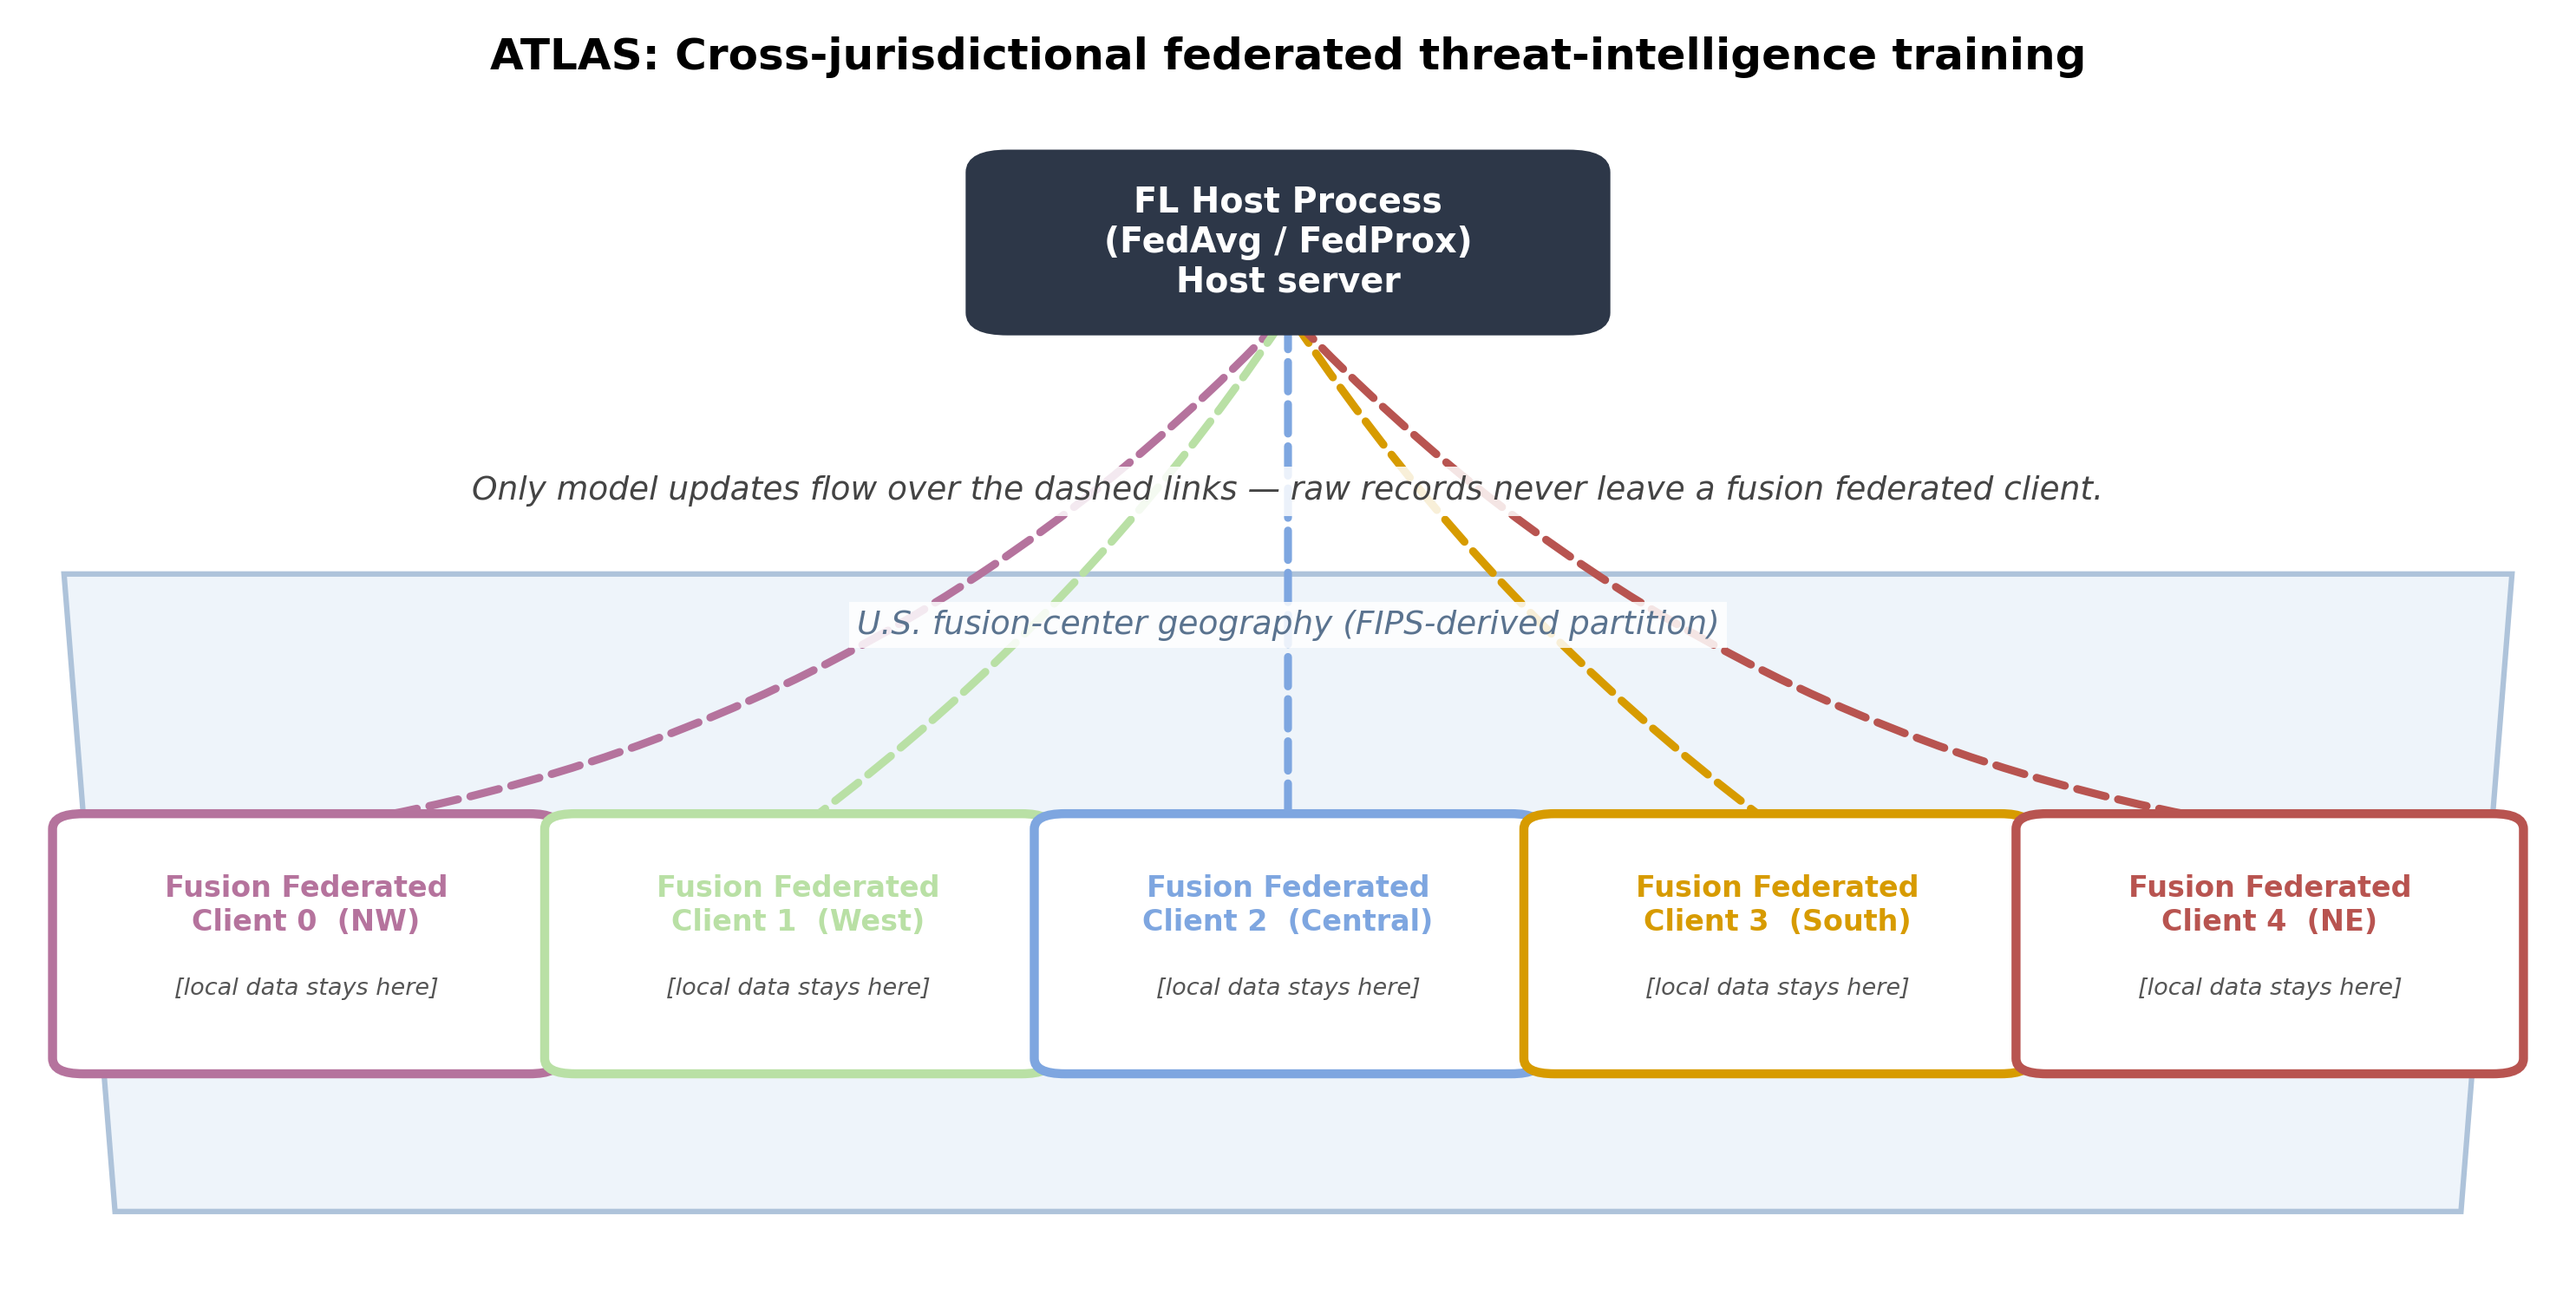
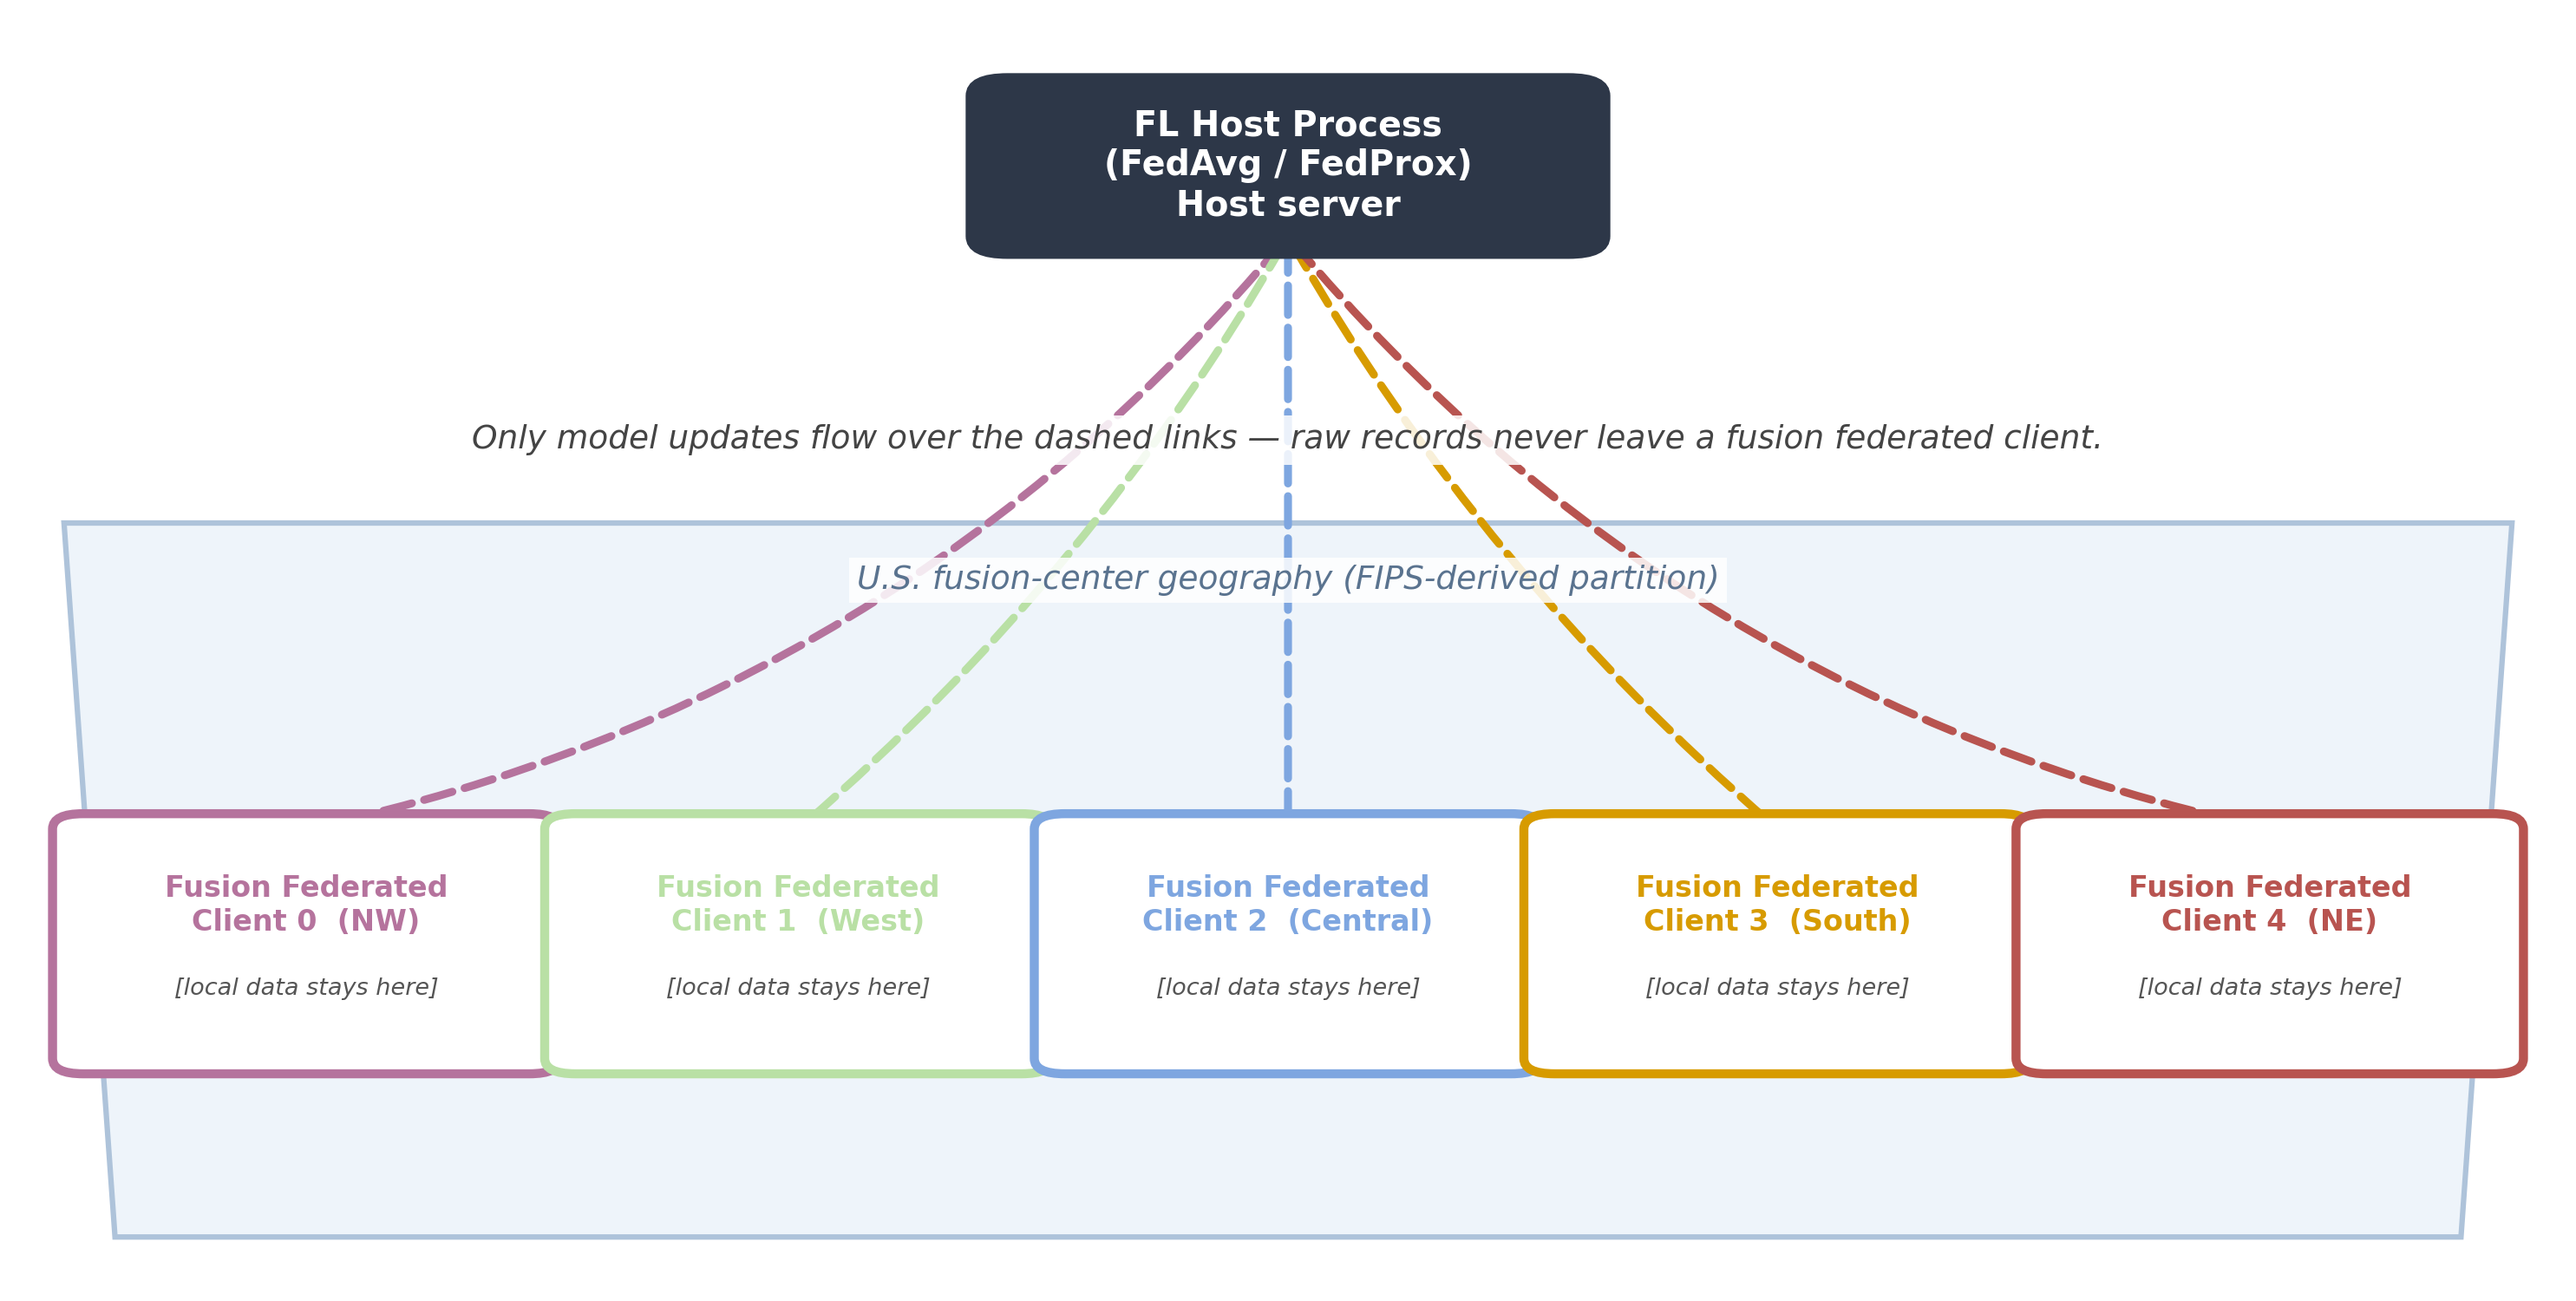
Paper Report

diff --git a/paper/generate_figures.py b/paper/generate_figures.py
@@ -59,10 +59,70 @@ import numpy as np
 REPO_ROOT = Path(__file__).resolve().parent.parent
 sys.path.insert(0, str(REPO_ROOT))
 
-from Analysis.CommunitiesCrime import (
-    plot_centralized_vs_federated,
-    plot_per_client_distribution,
+from Analysis.CommunitiesCrime.log_parser import (
+    collect_server_logs,
+    parse_partition_stats,
 )
+from Analysis.CommunitiesCrime.plot_style import (
+    apply_style,
+    derive_savefig_kwargs,
+)
+
+_CLASS_LABELS = {"0": "violent", "1": "property", "2": "other"}
+
+
+def _plot_per_client_distribution(run_dir, out):
+    """Inline plotting (no title) for the per-client distribution figure."""
+    stats = parse_partition_stats(Path(run_dir) / "partition_stats.json")
+    clients = stats.get("clients", {})
+    client_ids = sorted(clients.keys(), key=int)
+    classes = sorted({c for cid in client_ids
+                      for c in clients[cid]["train"].get("class_distribution", {})})
+
+    counts = np.zeros((len(classes), len(client_ids)), dtype=int)
+    for j, cid in enumerate(client_ids):
+        dist = clients[cid]["train"].get("class_distribution", {})
+        for i, c in enumerate(classes):
+            counts[i, j] = int(dist.get(c, 0))
+
+    with apply_style("paper"):
+        fig, ax = plt.subplots(figsize=(max(8, 1.5 * len(client_ids)), 5))
+        bottom = np.zeros(len(client_ids), dtype=int)
+        x = np.arange(len(client_ids))
+        for i, c in enumerate(classes):
+            ax.bar(x, counts[i], bottom=bottom,
+                   label=_CLASS_LABELS.get(c, f"class {c}"))
+            bottom = bottom + counts[i]
+        ax.set_xlabel("Client ID")
+        ax.set_ylabel("Train samples")
+        ax.set_xticks(x, client_ids)
+        ax.legend(title="threat_class")
+        fig.tight_layout()
+        fig.savefig(out, **derive_savefig_kwargs(out))
+        plt.close(fig)
+
+
+def _plot_centralized_vs_federated(runs, out, baseline=None,
+                                   metric="threat_macro_f1"):
+    """Inline plotting (no title) for the headline / proximal figures."""
+    df = collect_server_logs(list(runs.values()), list(runs.keys()))
+    with apply_style("paper"):
+        fig, ax = plt.subplots(figsize=(8, 5))
+        for label, sub in df.groupby("label"):
+            if metric not in sub.columns:
+                continue
+            ax.plot(sub["round"], sub[metric], label=label,
+                    marker="o", markersize=3)
+        if baseline is not None:
+            ax.axhline(baseline, linestyle="--", color="black", alpha=0.6,
+                       label=f"Centralized ({baseline:.3f})")
+        ax.set_xlabel("Round")
+        ax.set_ylabel(metric)
+        ax.legend()
+        ax.grid(True, alpha=0.3)
+        fig.tight_layout()
+        fig.savefig(out, **derive_savefig_kwargs(out))
+        plt.close(fig)
 
 # ---------------------------------------------------------------------------
 # Run-directory search tables
@@ -139,7 +199,7 @@ def make_per_client_distribution(out: Path, mode: str) -> str:
     geo = None if mode == "synthetic" else first_valid(GEO_RUN_CANDIDATES, "partition_stats.json")
 
     if geo is not None:
-        plot_per_client_distribution.plot(geo, output=out, style="paper")
+        _plot_per_client_distribution(geo, out)
         return f"real from {geo.relative_to(REPO_ROOT)}"
 
     if mode == "real":
@@ -161,7 +221,6 @@ def make_per_client_distribution(out: Path, mode: str) -> str:
         bottom += base[:, i]
     ax.set_xlabel("Client ID")
     ax.set_ylabel("Train samples")
-    ax.set_title("Per-client class distribution (strategy=geographic, N=5)")
     ax.set_xticks(x, [str(i) for i in range(n_clients)])
     ax.legend(title="threat_class")
     ax.spines["top"].set_visible(False)
@@ -206,17 +265,15 @@ def make_headline_convergence(out: Path, mode: str, baseline: float) -> str:
             f"{set(['FedAvg-IID', 'FedAvg-Geographic', 'FedProx-Geographic']) - set(available)}"
         )
 
-    # If we have all three runs, use the official plot module
+    # If we have all three runs, use the inline title-free plot
     if len(available) == 3:
-        plot_centralized_vs_federated.plot(
-            available, output=out,
-            centralized_baseline=baseline, style="paper",
+        _plot_centralized_vs_federated(
+            available, out, baseline=baseline,
         )
         return "real from " + "; ".join(sources)
 
     # Otherwise build a custom plot: real curves where we have them,
     # synthetic curves for the rest.
-    from Analysis.CommunitiesCrime.log_parser import collect_server_logs
 
     fig, ax = plt.subplots(figsize=(8, 5), dpi=300)
     rounds = 50
@@ -249,7 +306,6 @@ def make_headline_convergence(out: Path, mode: str, baseline: float) -> str:
                label=f"Centralized ({baseline:.3f})")
     ax.set_xlabel("Round")
     ax.set_ylabel("threat_macro_f1")
-    ax.set_title("Headline convergence — centralized vs federated")
     ax.legend(loc="lower right", fontsize=9)
     ax.grid(True, alpha=0.3)
     ax.spines["top"].set_visible(False)
@@ -271,9 +327,9 @@ def make_proximal_evolution(out: Path, mode: str) -> str:
     prox = None if mode == "synthetic" else first_valid(PROX_RUN_CANDIDATES, "server_evaluation.log")
 
     if prox is not None:
-        plot_centralized_vs_federated.plot(
-            {"FedProx-Geographic": prox},
-            output=out, metric="proximal_contribution", style="paper",
+        _plot_centralized_vs_federated(
+            {"FedProx-Geographic": prox}, out,
+            metric="proximal_contribution",
         )
         return f"real from {prox.relative_to(REPO_ROOT)}"
 
@@ -292,7 +348,6 @@ def make_proximal_evolution(out: Path, mode: str) -> str:
     ax.plot(t, pi, marker="o", markersize=3, label="FedProx-Geographic")
     ax.set_xlabel("Round")
     ax.set_ylabel(r"proximal_contribution  $\Pi = (\mu/2)\sum_j \|\theta_j - \theta^t\|^2$")
-    ax.set_title(r"Proximal-term decay under FedProx ($\mu = 0.01$)")
     ax.legend(loc="upper right")
     ax.grid(True, alpha=0.3)
     ax.spines["top"].set_visible(False)

diff --git a/paper/generate_diagrams.py b/paper/generate_diagrams.py
@@ -58,13 +58,8 @@ BLOCK_EDGE   = "#444444"
 def make_overview(out: Path) -> None:
     fig, ax = plt.subplots(figsize=(10, 5), dpi=300)
 
-    # Compact title flush to the top
-    ax.text(0.50, 0.965,
-            "ATLAS: Cross-jurisdictional federated threat-intelligence training",
-            ha="center", va="center", fontsize=12, fontweight="bold")
-
     # FL host node
-    central_host = (0.50, 0.82)
+    central_host = (0.50, 0.88)
     host_w, host_h = 0.22, 0.11
     host_box = FancyBboxPatch(
         (central_host[0] - host_w/2, central_host[1] - host_h/2),
@@ -79,7 +74,7 @@ def make_overview(out: Path) -> None:
 
     # Subtitle, placed between the host and the client row, with a soft
     # translucent backdrop so it reads cleanly through the dashed lines
-    ax.text(0.50, 0.625,
+    ax.text(0.50, 0.665,
             "Only model updates flow over the dashed links — raw records never leave a fusion federated client.",
             ha="center", va="center", fontsize=9, color="#444", style="italic",
             zorder=7,
@@ -87,14 +82,14 @@ def make_overview(out: Path) -> None:
 
     # Geographic backdrop band
     backdrop = mpatches.Polygon(
-        [(0.04, 0.06), (0.96, 0.06), (0.98, 0.56), (0.02, 0.56)],
+        [(0.04, 0.04), (0.96, 0.04), (0.98, 0.60), (0.02, 0.60)],
         closed=True, facecolor="#eef4fa", edgecolor="#aec3da",
         linewidth=1.5, zorder=1,
     )
     ax.add_patch(backdrop)
 
     # Backdrop label — layered above lines with translucent box
-    ax.text(0.50, 0.520, "U.S. fusion-center geography (FIPS-derived partition)",
+    ax.text(0.50, 0.555, "U.S. fusion-center geography (FIPS-derived partition)",
             ha="center", va="center", fontsize=9, style="italic",
             color="#5a738f", zorder=7,
             bbox=dict(facecolor="white", alpha=0.85, edgecolor="none", pad=2))
@@ -286,11 +281,6 @@ def make_architecture(out: Path) -> None:
     ax.text(0.50, 0.13, "global model θᵗ broadcast  ↔  client updates {θⱼ}",
             ha="center", va="center", fontsize=8.5,
             color=LAYER3_TEXT, style="italic", zorder=7)
-
-    # Title
-    ax.text(0.50, 0.985,
-            "ATLAS: Three-Layer Coordination Framework",
-            ha="center", va="center", fontsize=13, fontweight="bold")
 
     ax.set_xlim(0, 1)
     ax.set_ylim(0, 1)
